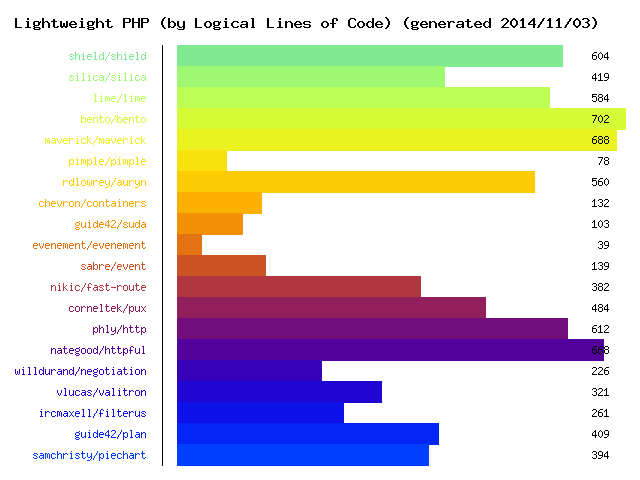
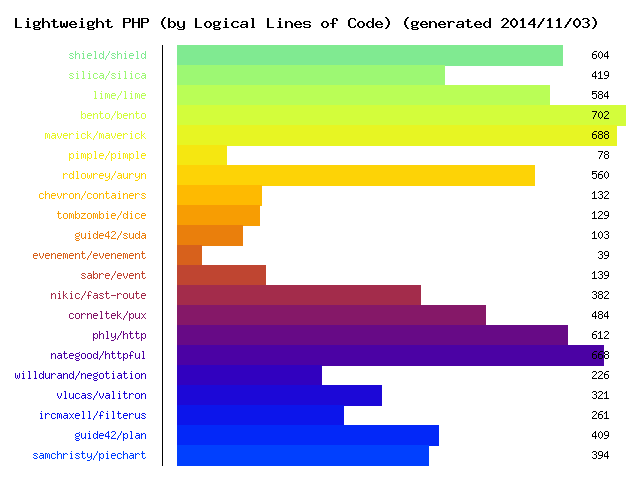
Add Dice

diff --git a/README.md b/README.md
@@ -28,6 +28,7 @@ List of lightweight PHP libraries.
 * [Auryn](https://github.com/rdlowrey/Auryn) - IoC dependency injector
 * [Orno\Di](https://github.com/orno/di) - A fast and powerful dependency injection container
 * [Containers](https://github.com/chevronphp/containers) - An implementation of the registry pattern
+* [Dice](https://github.com/TomBZombie/Dice) - A minimalist Dependency injection container (DIC) for PHP.
 * [Suda](https://github.com/guide42/suda) - A lightweight container for your services
 
 ## Events
